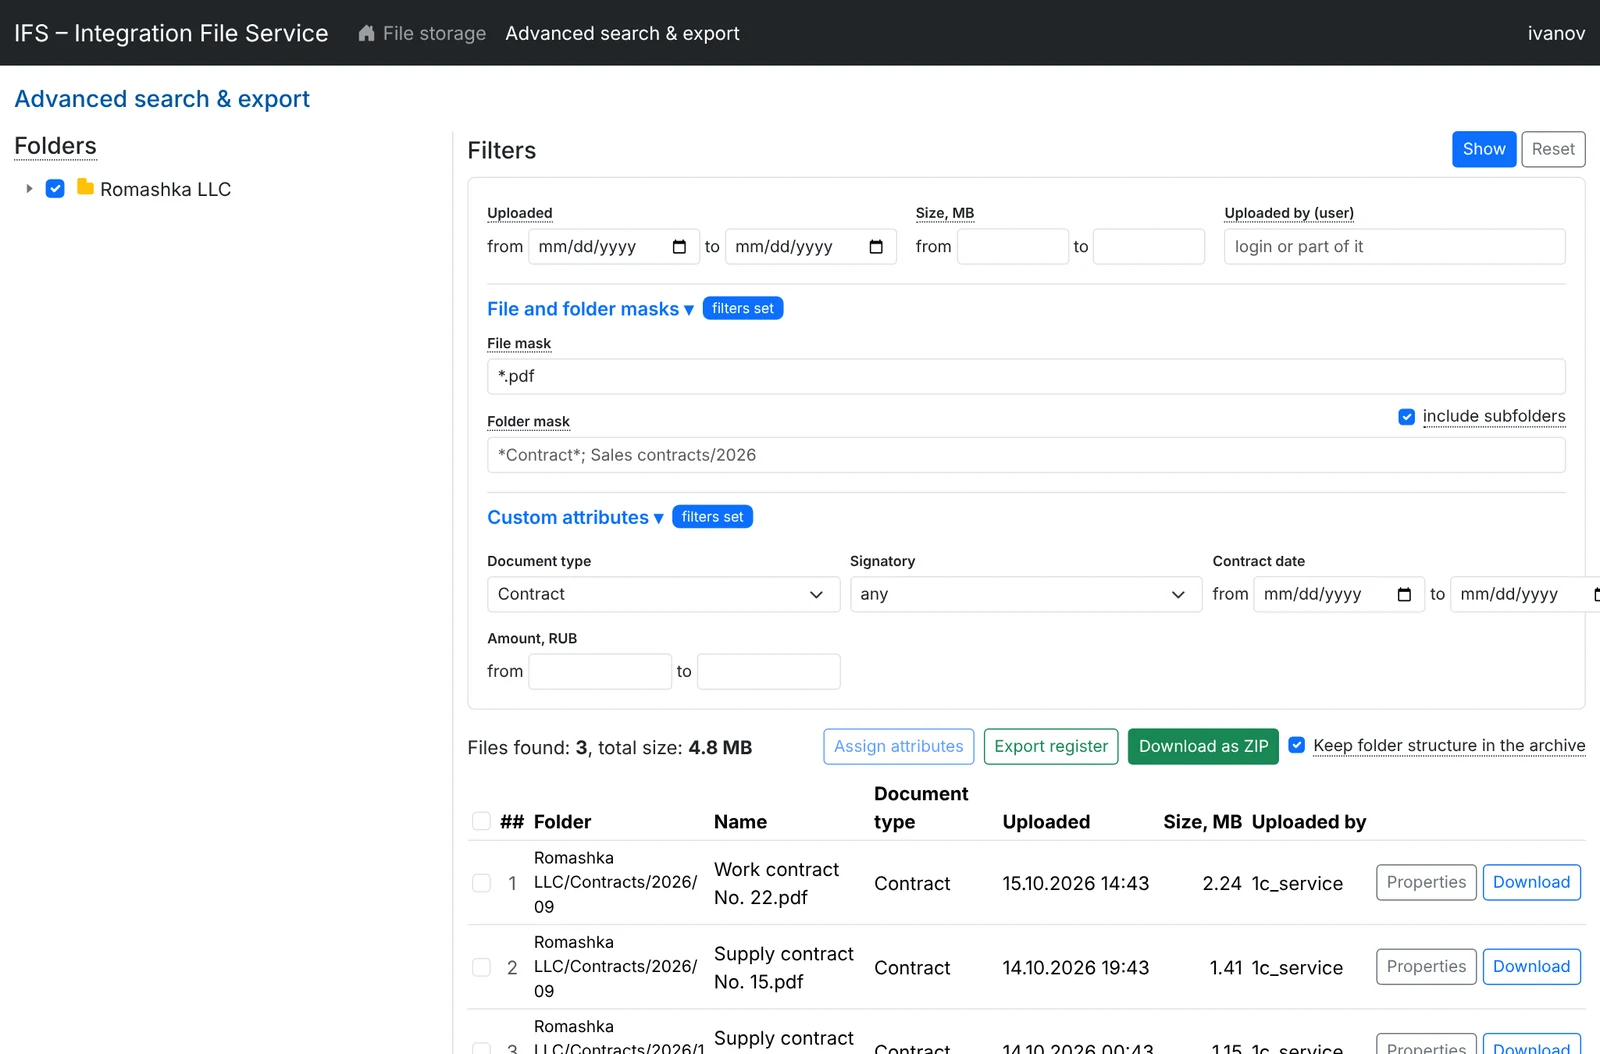
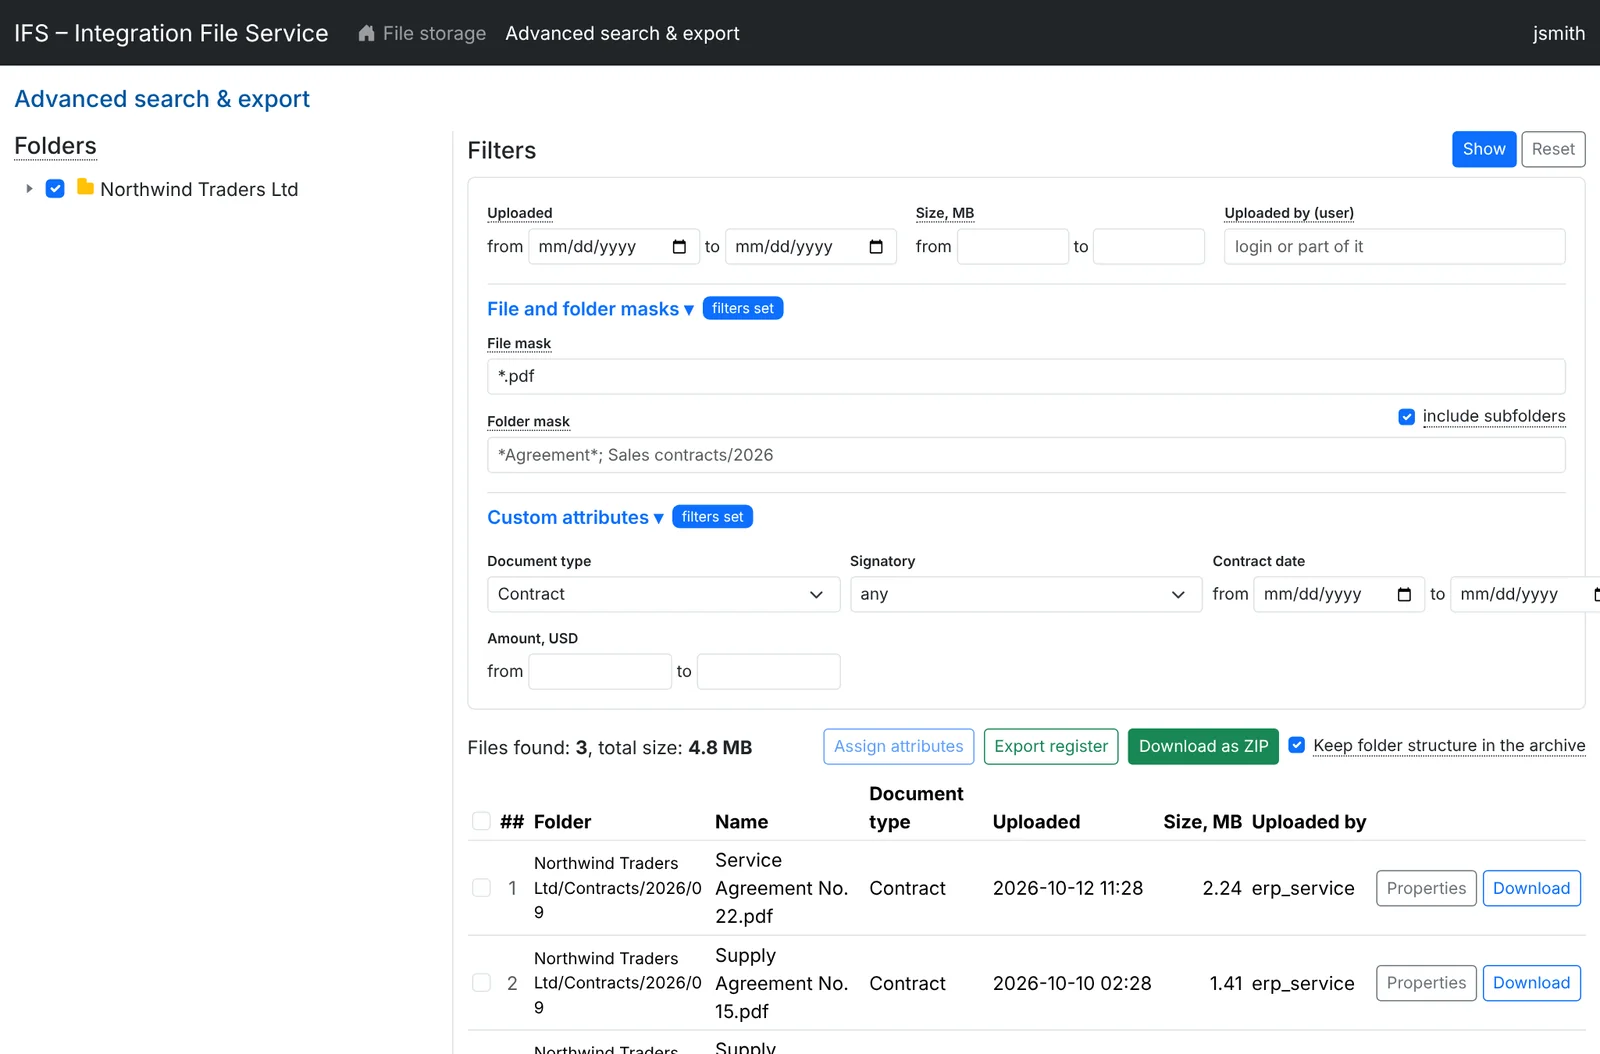
IFS case study: international demo data and ERP wording
Replace the Russian demo data (organizations, users, currency) with
Western ones, re-shoot all screenshots, redraw the cover and diagram,
and say ERP instead of 1C.

Claude-Session: https://claude.ai/code/session_0166y8BgE3d5ShrLBXU53SdE

diff --git a/_projects/ifs.md b/_projects/ifs.md
@@ -1,7 +1,7 @@
 ---
 title: IFS — Integration File Service
 short_title: IFS
-tagline: A corporate document repository on top of S3, with a web UI for employees and an HTTP API for 1C.
+tagline: A corporate document repository on top of S3, with a web UI for employees and an HTTP API for ERP systems.
 summary: Role-based access over a folder tree, single sign-on, an audit log, custom document attributes, advanced search and ZIP / Excel export.
 order: 1
 featured: true
@@ -9,7 +9,7 @@ accent: "#2f7bd9"
 cover: /assets/projects/ifs/cover.webp
 type: Web application
 year: 2026
-tags: [Django, PostgreSQL, S3, nginx · Kerberos, 1C, Delphi]
+tags: [Django, PostgreSQL, S3, nginx · Kerberos, REST API, ERP integration]
 stats:
   - value: "60–130 ms"
     label: advanced search over 3,000 folders and 60,000 files
@@ -24,8 +24,8 @@ features:
     title: Folder tree and roles
     text: Eight actions on folders and files. Roles are assigned to a branch, inherited downward and added together. Search and export respect rights, so closed documents never show up in results.
   - icon: bi-plug
-    title: API for 1C and other systems
-    text: Documents arrive by a readable path, Organization/Section/Year/Month/file. Missing folders are created on the fly with the parent's rights. 1C and Delphi modules included.
+    title: API for ERP and other systems
+    text: Documents arrive by a readable path, Organization/Section/Year/Month/file. Missing folders are created on the fly with the parent's rights. Any ERP (SAP, Microsoft Dynamics, Oracle) or script can call it, and sample clients are included.
   - icon: bi-tags
     title: Custom document attributes
     text: Document type, signatory, contract date, amount. Admin-managed dictionary; values can be set in the file card, on upload, in bulk from search results and via the API.
@@ -69,7 +69,7 @@ IFS is a single place for primary documents — contracts, acts, invoices — of
 
 ## The challenge
 
-- Documents have to arrive automatically from 1C.
+- Documents have to arrive automatically from the ERP system.
 - Employees work with them in the browser, and everyone sees only their own.
 - Security needs to see who did what and when.
 - Everything runs inside the corporate network.

diff --git a/README.md b/README.md
@@ -19,7 +19,7 @@ An independent studio that designs, builds and publishes small, polished games a
 | | |
 |---|---|
 | <img src="assets/apps/mousecrumbs/icon.png" width="64" alt="Mouse Crumbs icon"> | **[Mouse Crumbs](https://iakimlabs.com/apps/mousecrumbs/)** — a gentle offline game where you feed a little mouse, ring a bell and watch it explore. No ads, no accounts, no purchases. 21 languages. *Now in closed testing on Google Play.* |
-| <img src="assets/projects/ifs/cover.webp" width="64" alt="IFS cover"> | **[IFS — Integration File Service](https://iakimlabs.com/web/ifs/)** — a corporate document repository on top of S3, with a web UI, an HTTP API for 1C, role-based access, an audit log, advanced search and ZIP / Excel export. *Web application.* |
+| <img src="assets/projects/ifs/cover.webp" width="64" alt="IFS cover"> | **[IFS — Integration File Service](https://iakimlabs.com/web/ifs/)** — a corporate document repository on top of S3, with a web UI, an HTTP API for ERP systems, role-based access, an audit log, advanced search and ZIP / Excel export. *Web application.* |
 
 More games and apps are on the way.
 
